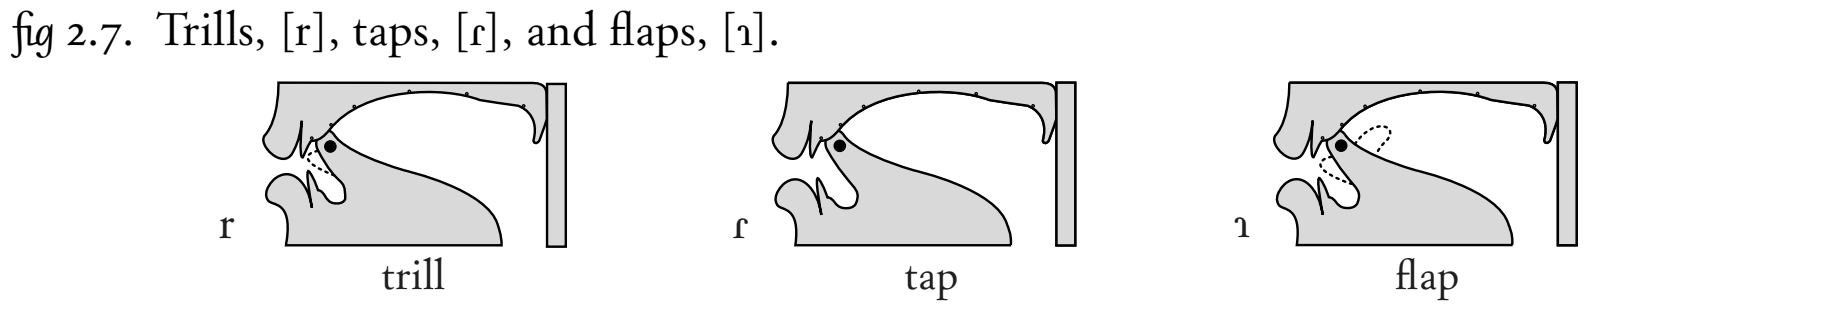
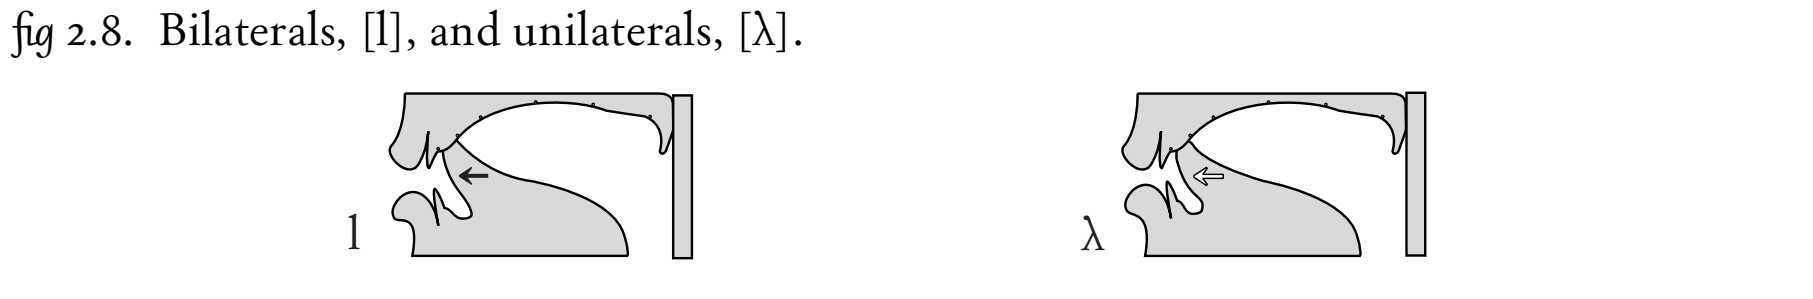
2.20 typo

Changed region(s): [[0.1236, 0.2408, 0.8649, 0.9331], [0.0, 0.0301, 0.4324, 0.2107], [0.4942, 0.8428, 0.5251, 0.9331]]

diff --git a/canIPA/Natural Phonetics & Tonetics (2 pdf)/加工产品/npt-ch-00-06_2023-06-20_first 2.md b/canIPA/Natural Phonetics & Tonetics (2 pdf)/加工产品/npt-ch-00-06_2023-06-20_first 2.md
@@ -305,4 +305,4 @@ fig 2.11. Different notation types.
 
     In conclusion, it is necessary to set aside every normal writing habit which could lead to confusion between the symbols. The best strategy to reach this essential goal is to begin observing every symbol with great care. A ‹typographic eye› should be developed which pays attention to every detail, from the size and orientation of a stroke ([t, , ʈ, ȶ], [β, ß]), or of a symbol ([e, ɘ, ə], [ʀ, ʁ, ⿾ʀ, ⿾ʁ], [ɑ, ɒ; a, ɐ], [ᴇ, ⱻ; ɛ, ɜ], [ɤ, ⿿ɤ, v, ʌ; c, ɔ], [r, ɹ, ], [h, ⿾h, ɥ], [f, ɟ; j, ⿾j; ʝ, ⿾ʝ; ȷ, ᴊ]), to the presence or absence of a sort of *serif*, or the type of serif present: [i, ɪ, ɩ, u, μ, ʊ; o, σ, ].
 
-    In working towards this objective, the observations in Ç 8-9 will help the reader to *look at*, not just see, the symbols found throughout the text. In this way, it will prove easier to ‹accept› the fact that [g] always has the value present in the word *get* /ˈɡɛt/, and not the value in *gem* /ˈdʒɛm/ (while GIF –or ‹.gif›– can be pronounced either /ˈɡɪf/ or /ˈdʒɪf/), &c.
+    In working towards this objective, the observations in Ch 8-9 will help the reader to *look at*, not just see, the symbols found throughout the text. In this way, it will prove easier to ‹accept› the fact that [g] always has the value present in the word *get* /ˈɡɛt/, and not the value in *gem* /ˈdʒɛm/ (while GIF –or ‹.gif›– can be pronounced either /ˈɡɪf/ or /ˈdʒɪf/), &c.
